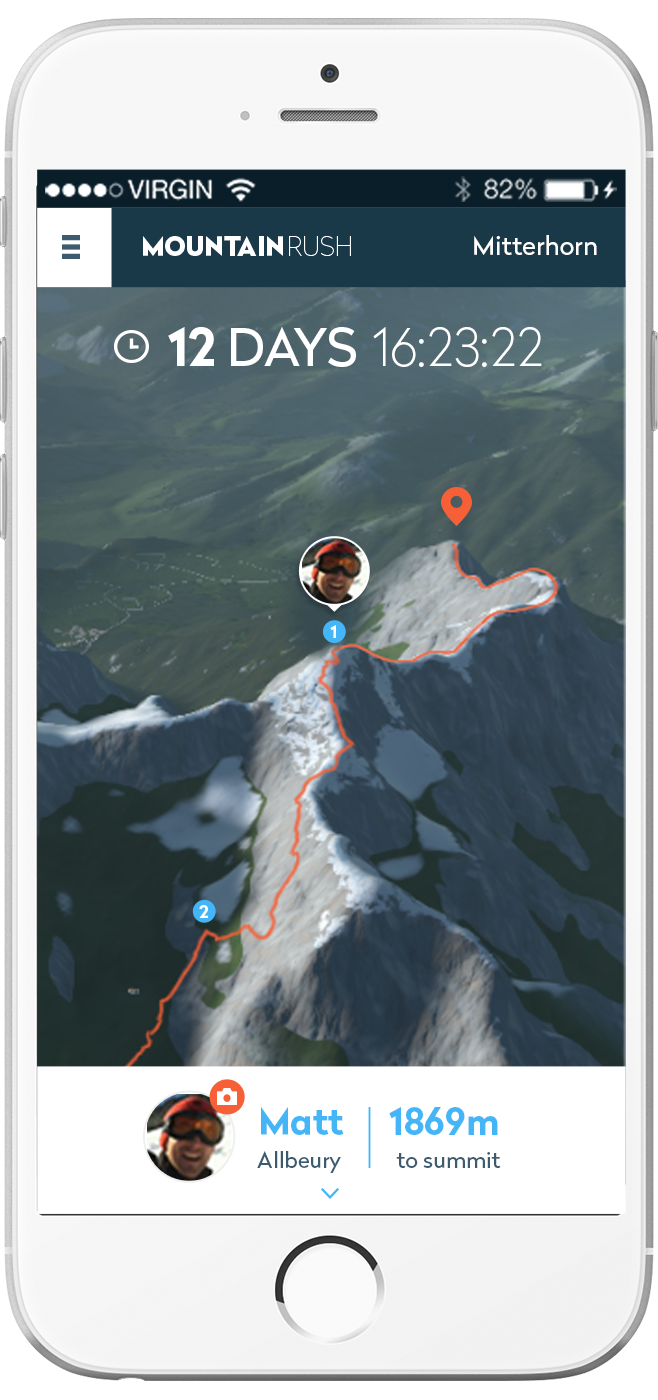
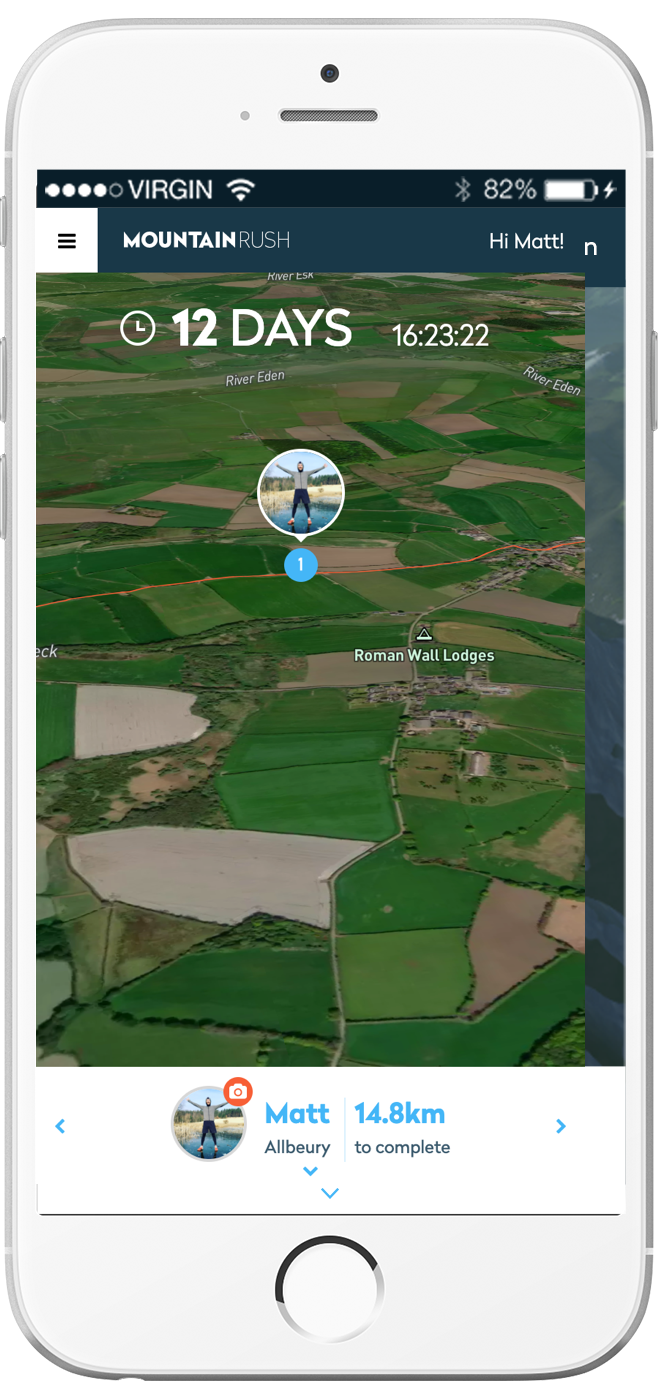
Update 2D map

diff --git a/dist/static-assets/js/views/Challenge2DView.js b/dist/static-assets/js/views/Challenge2DView.js
@@ -531,7 +531,8 @@ define([
 
       this.map = new mapboxgl.Map({
         container: this.el, // container id
-        style: 'mapbox://styles/mallbeury/ck4i4tr9q0gir1co28gaq1fmo',
+//        style: 'mapbox://styles/mallbeury/ck4i4tr9q0gir1co28gaq1fmo',
+        style: 'mapbox://styles/mapbox-map-design/ckhqrf2tz0dt119ny6azh975y',
         center: [self.options.arrMapPoint[0], self.options.arrMapPoint[1]],
         zoom: 12,
         interactive: true,
@@ -541,7 +542,22 @@ define([
       this.map.on('load', function () {
         self.map.addSource('dem', {
           'type': 'raster-dem',
-          'url': 'mapbox://mapbox.terrain-rgb'
+          'url': 'mapbox://mapbox.mapbox-terrain-dem-v1',
+          'tileSize': 512
+        });
+
+        // add the DEM source as a terrain layer with exaggerated height
+        self.map.setTerrain({ 'source': 'dem', 'exaggeration': 1.5 });
+
+        // add a sky layer that will show when the map is highly pitched
+        self.map.addLayer({
+          'id': 'sky',
+          'type': 'sky',
+          'paint': {
+            'sky-type': 'atmosphere',
+            'sky-atmosphere-sun': [0.0, 0.0],
+            'sky-atmosphere-sun-intensity': 15
+          }
         });
 
         // fire event

diff --git a/src/static-assets/js/views/Challenge2DView.js b/src/static-assets/js/views/Challenge2DView.js
@@ -531,7 +531,8 @@ define([
 
       this.map = new mapboxgl.Map({
         container: this.el, // container id
-        style: 'mapbox://styles/mallbeury/ck4i4tr9q0gir1co28gaq1fmo',
+//        style: 'mapbox://styles/mallbeury/ck4i4tr9q0gir1co28gaq1fmo',
+        style: 'mapbox://styles/mapbox-map-design/ckhqrf2tz0dt119ny6azh975y',
         center: [self.options.arrMapPoint[0], self.options.arrMapPoint[1]],
         zoom: 12,
         interactive: true,
@@ -541,7 +542,22 @@ define([
       this.map.on('load', function () {
         self.map.addSource('dem', {
           'type': 'raster-dem',
-          'url': 'mapbox://mapbox.terrain-rgb'
+          'url': 'mapbox://mapbox.mapbox-terrain-dem-v1',
+          'tileSize': 512
+        });
+
+        // add the DEM source as a terrain layer with exaggerated height
+        self.map.setTerrain({ 'source': 'dem', 'exaggeration': 1.5 });
+
+        // add a sky layer that will show when the map is highly pitched
+        self.map.addLayer({
+          'id': 'sky',
+          'type': 'sky',
+          'paint': {
+            'sky-type': 'atmosphere',
+            'sky-atmosphere-sun': [0.0, 0.0],
+            'sky-atmosphere-sun-intensity': 15
+          }
         });
 
         // fire event

diff --git a/dist/static-assets/js/main.js b/dist/static-assets/js/main.js
@@ -37,7 +37,7 @@ require.config({
     cookie: 'libs/js.cookie',
     videojs: '//vjs.zencdn.net/4.12/video',
     modernizr: 'libs/modernizr-custom',
-    mapboxgl: 'https://api.tiles.mapbox.com/mapbox-gl-js/v0.53.1/mapbox-gl',
+    mapboxgl: 'https://api.tiles.mapbox.com/mapbox-gl-js/v2.8.2/mapbox-gl',
     raisenow: 'https://widget.raisenow.com/widgets/lema/' + FUNDRAISING_PROVIDER_CAUSE_CODE + '/js/dds-init-widget-en'
   },
   shim: {

diff --git a/src/static-assets/js/main.js b/src/static-assets/js/main.js
@@ -37,7 +37,7 @@ require.config({
     cookie: 'libs/js.cookie',
     videojs: '//vjs.zencdn.net/4.12/video',
     modernizr: 'libs/modernizr-custom',
-    mapboxgl: 'https://api.tiles.mapbox.com/mapbox-gl-js/v0.53.1/mapbox-gl',
+    mapboxgl: 'https://api.tiles.mapbox.com/mapbox-gl-js/v2.8.2/mapbox-gl',
     raisenow: 'https://widget.raisenow.com/widgets/lema/' + FUNDRAISING_PROVIDER_CAUSE_CODE + '/js/dds-init-widget-en'
   },
   shim: {
